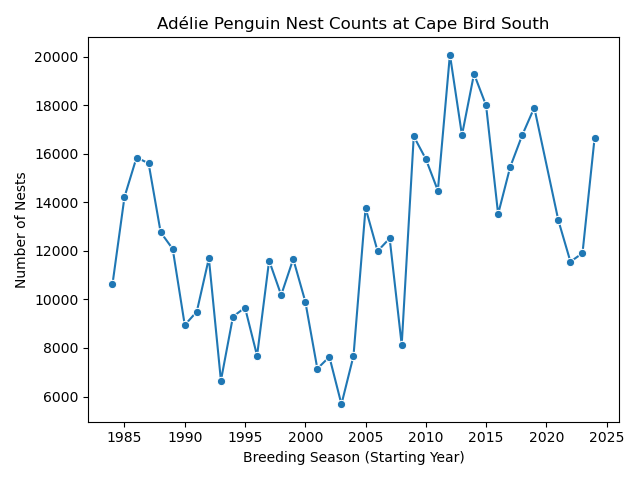
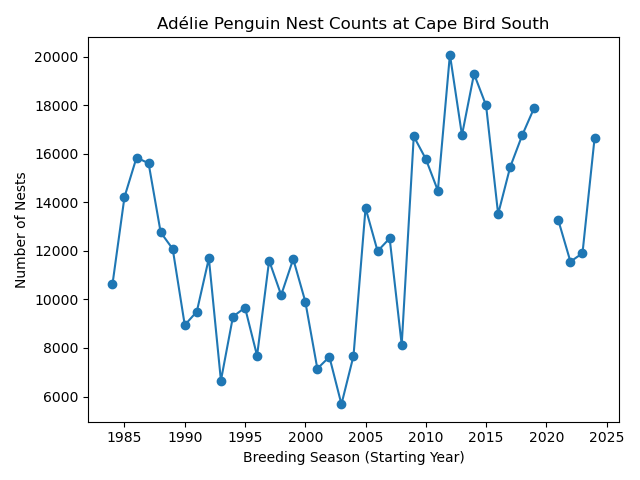
Improve EDA analysis and tests

diff --git a/eda.py b/eda.py
@@ -52,6 +52,15 @@ def main():
     print("Breeding season summary:")
     print(adelie["season_starting"].describe())
 
+    print("Categorical variable frequencies:")
+    for column in ["site_name", "common_name",
+                   "count_type", "vantage"]:
+        print(column)
+        print(adelie[column].value_counts())
+
+    print("Duplicate breeding seasons:")
+    print(adelie["season_starting"].duplicated().sum())
+
     years = adelie["season_starting"]
     counts = adelie["penguin_count"]
     result = stats.kendalltau(years, counts)
@@ -140,10 +149,12 @@ def main():
 
     adelie = adelie.sort_values("season_starting")
 
-    sns.lineplot(
-        data=adelie,
-        x="season_starting",
-        y="penguin_count",
+    plot_data = adelie.set_index("season_starting")
+    plot_data = plot_data.reindex(range(1984, 2025))
+
+    plt.plot(
+        plot_data.index,
+        plot_data["penguin_count"],
         marker="o"
     )
 

diff --git a/test_eda.py b/test_eda.py
@@ -38,10 +38,24 @@ def test_unsorted_years():
     assert list(result["count_change"]) == [50, -30]
 
 
+def test_original_data_unchanged():
+    data = pd.DataFrame({
+        "season_starting": [2000, 2001, 2002],
+        "penguin_count": [100, 150, 120]
+    })
+
+    original = data.copy()
+
+    find_yearly_changes(data)
+
+    assert data.equals(original)
+
+
 def main():
     test_find_yearly_changes()
     test_missing_years()
     test_unsorted_years()
+    test_original_data_unchanged()
     print("All tests passed!")
 
 
